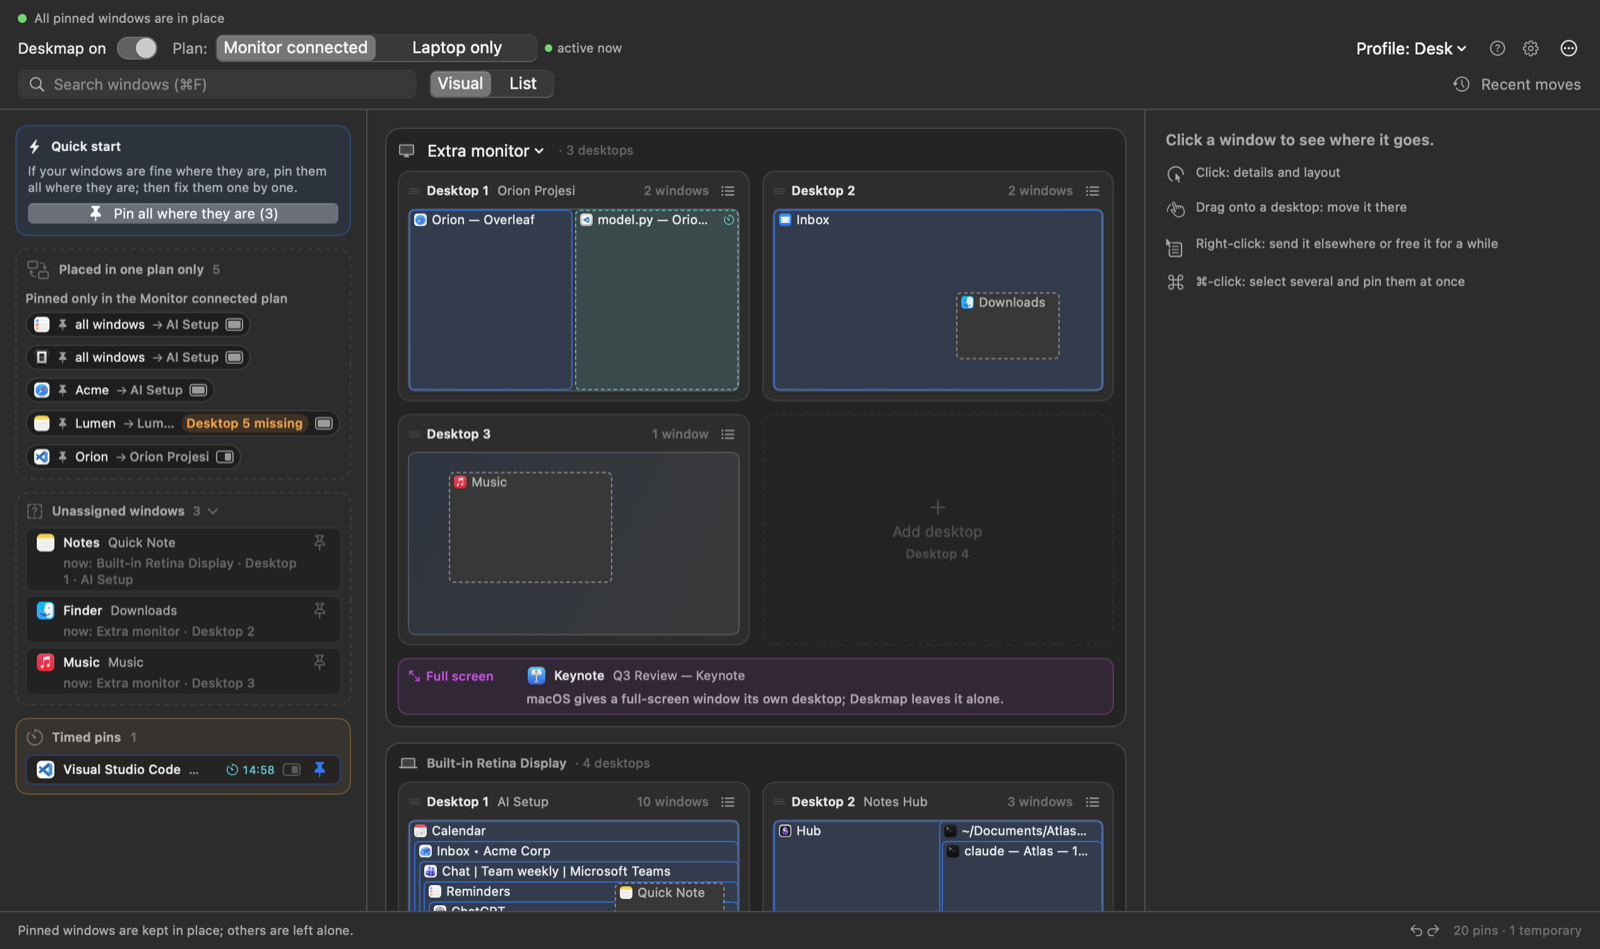
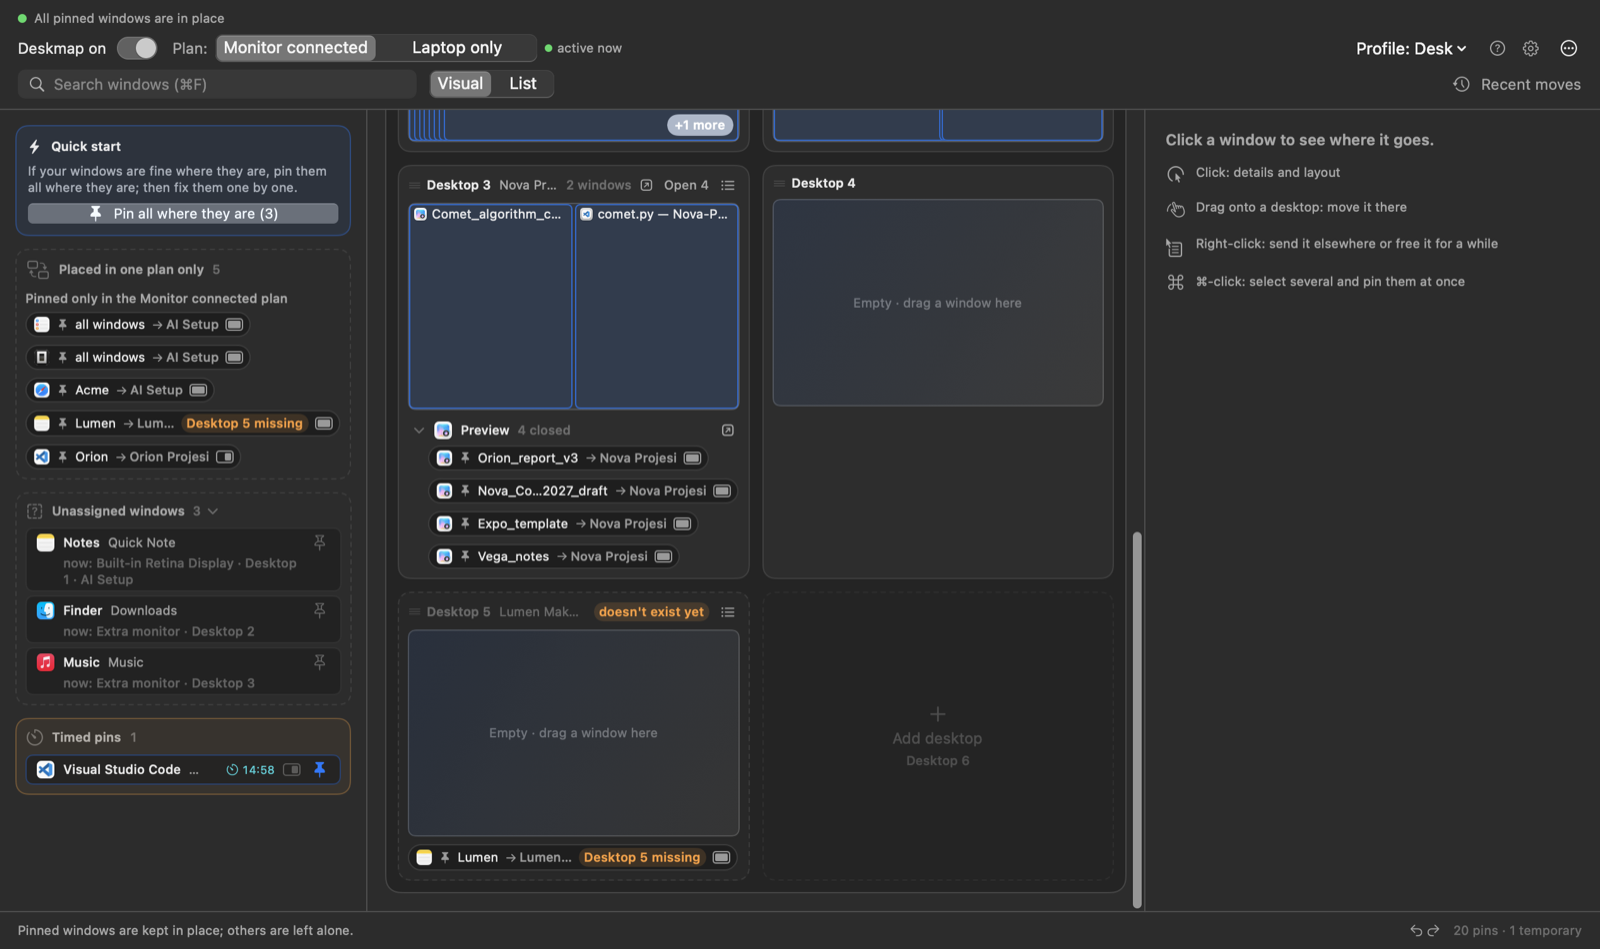
Shots: scroll the crowded map to the built-in display so the Open 4 frame shows the closed Preview group again (docs + site, EN + TR)

diff --git a/app/Sources/Deskmap/Demo/Shots.swift b/app/Sources/Deskmap/Demo/Shots.swift
@@ -355,7 +355,11 @@ enum Shots {
         // Alt kısım: uzun başlık, penceresi kapalı Preview sabitlemeleri, boş masaüstü.
         ui.reveal = RevealRequest(window: DemoData.crowdedCometWindowID, seq: 10)
         pump(0.5)
+        scrollMap(ui: ui, toBottom: true)
+        pump(0.3)
         capture("g01c-grid-closed-pins")
+        scrollMap(ui: ui, toBottom: false)
+        pump(0.3)
 
         ui.search = "orion"
         ui.reveal = RevealRequest(window: 130, seq: 2)
@@ -444,6 +448,24 @@ enum Shots {
     /// döngüsü sürmediği için elle pompalanır).
     private static func pump(_ seconds: TimeInterval) {
         RunLoop.main.run(until: Date().addingTimeInterval(seconds))
+    }
+
+    /// Haritayı en alta ya da başa kaydırır; yalnız shots modunda, ürün
+    /// yolunda kullanılmaz. `ui.reveal` (SwiftUI `scrollTo`) kalabalık
+    /// ızgarada kareye yetişmiyor; harici monitör listenin başında, dahili
+    /// ekran sonunda olduğu için alt uç dahili ekranın Masaüstü 3'ünü
+    /// (4 aç düğmesi, kapalı Preview grubu) karede tutar.
+    @MainActor
+    private static func scrollMap(ui: UIState, toBottom: Bool) {
+        guard let scrollView = ui.autoScroll.scrollView,
+              let document = scrollView.documentView else { return }
+        let clip = scrollView.contentView
+        let limit = max(document.frame.height - clip.bounds.height, 0)
+        var origin = clip.bounds.origin
+        // SwiftUI belge görünümü çevrik (y aşağı artar); değilse yön terstir.
+        origin.y = (toBottom == document.isFlipped) ? limit : 0
+        clip.scroll(to: origin)
+        scrollView.reflectScrolledClipView(clip)
     }
 }
 
